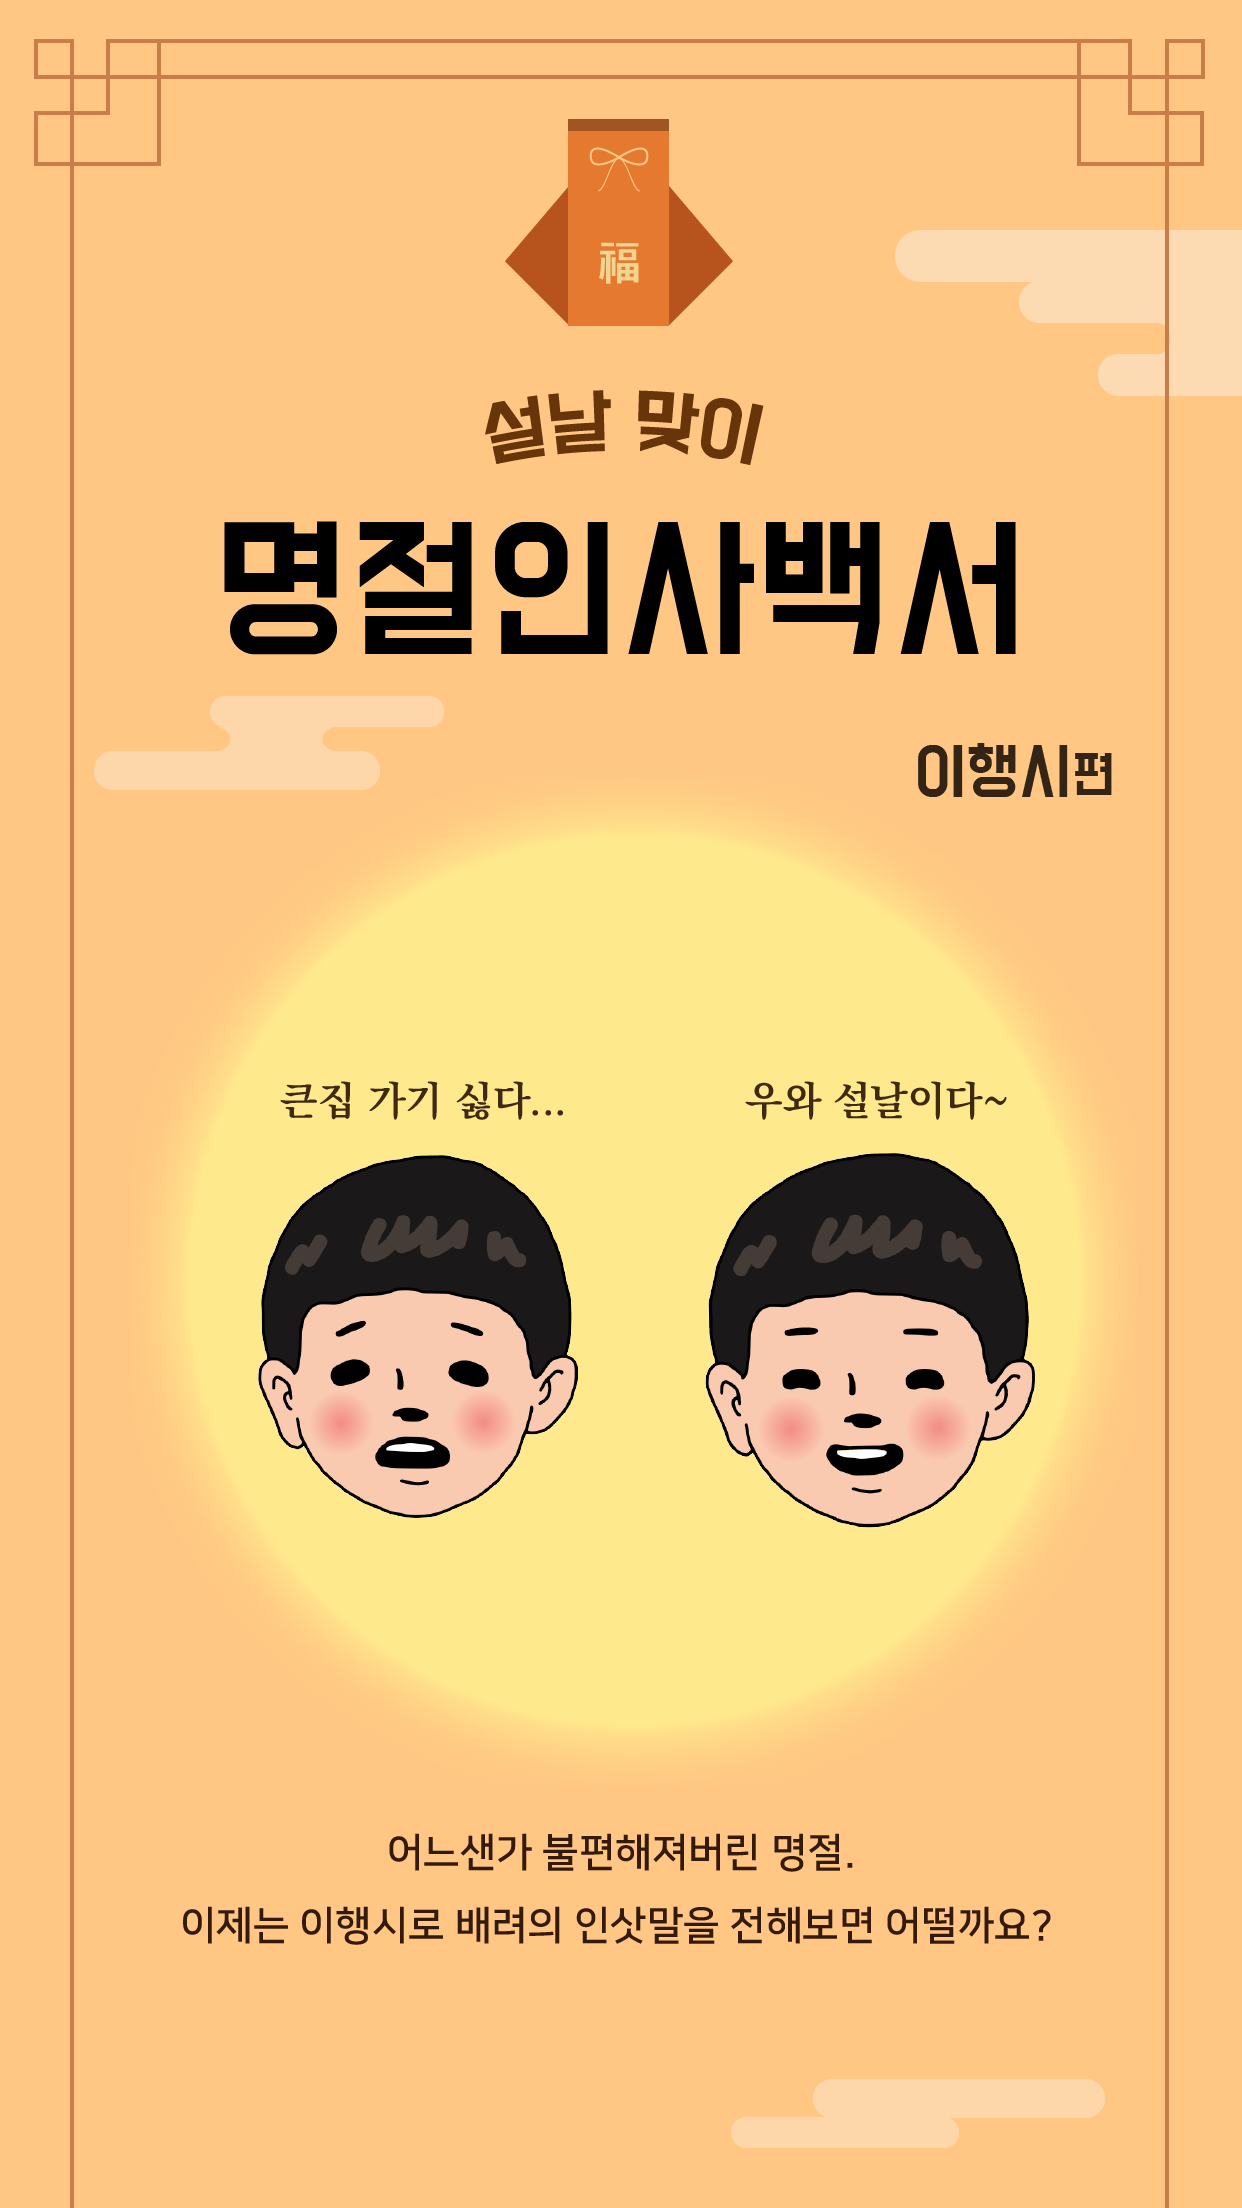
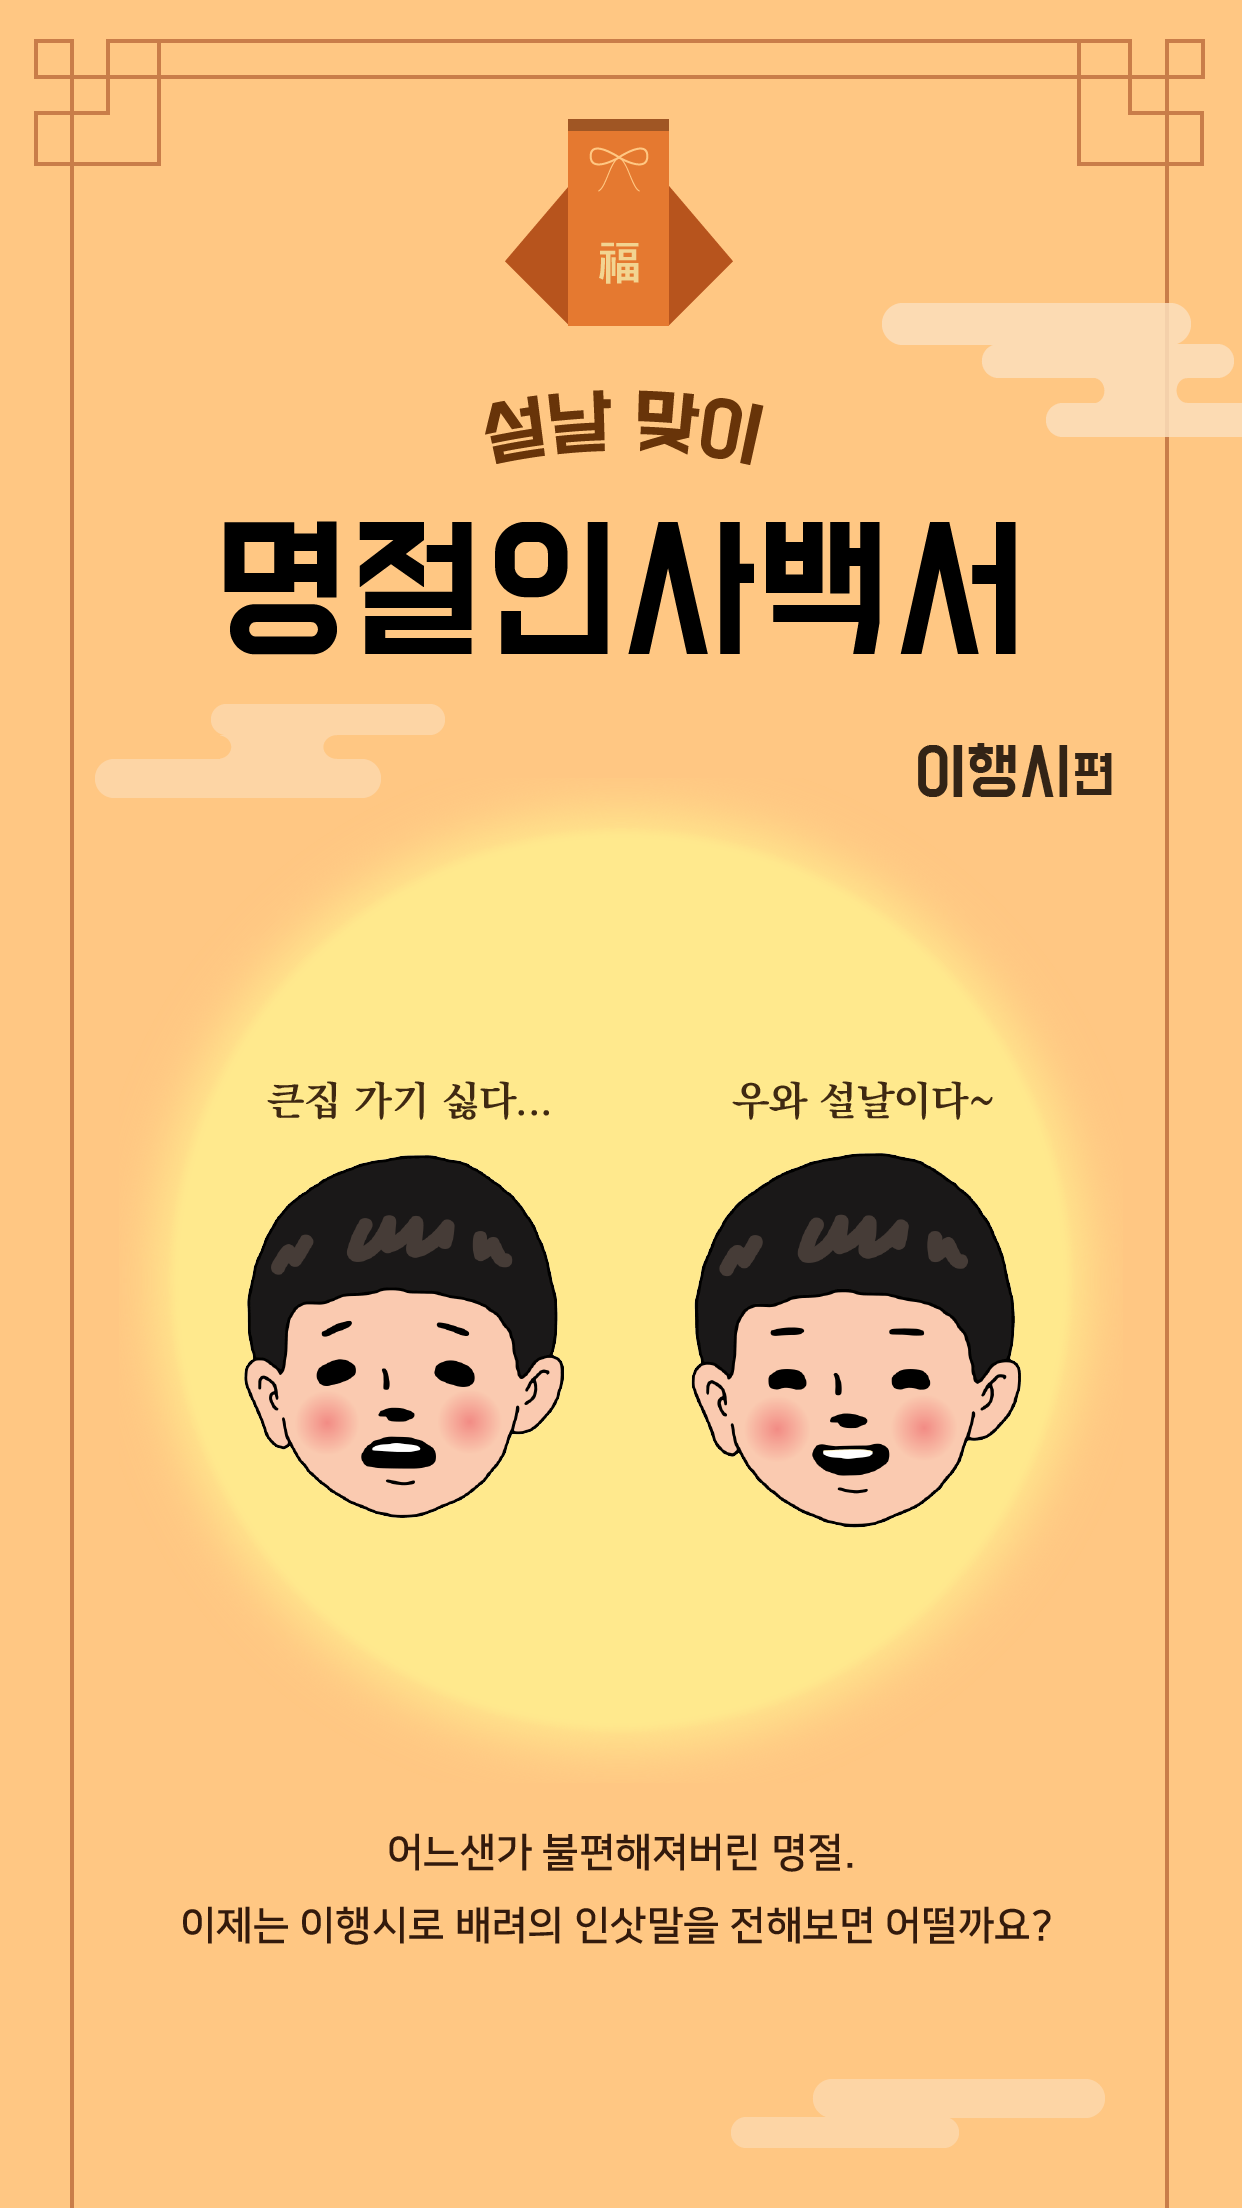
0123 style

diff --git a/public/stylesheets/mobile.css b/public/stylesheets/mobile.css
@@ -1,12 +1,15 @@
 /*mobile device*/
 @media screen and (max-width:768px)
 {
-/*
-    #cardslider
-    {
-    padding-top: 15vh;    
+    #a1{
+        margin-left: 80%;
     }
-*/
+    #a2{
+        margin-left: 10%;
+    }
+    #tagList{
+        margin-top:1%;
+    }
     .imageBlock img
     {
         width: 100% ; 
@@ -32,7 +35,10 @@
     {
         padding-top:30vh;
     }
-    
+    #beforeNext
+    {
+    max-width: 800px; width: 80%; height: 8vh; margin: 3% auto 3% auto;
+    }
     
     
 }
@@ -40,6 +46,21 @@
 
 @media screen and (min-width:769px)
 {
+    #a1{
+        margin-left: 80%;
+        font-size: 2em;
+    }
+    #a2{
+        margin-left: 10%;
+    font-size: 2.5em;
+    }
+    #tagList{
+        margin-top:2%;
+    }
+    #styleList{
+        position:relative; top:10px; padding:0; height: 10vh;
+    }
+    
     #cardslider
     {
     padding-top: 12vh;    
@@ -106,12 +127,36 @@
     {
         padding-top:40vh;
     }
+    #beforeNext
+    {
+    max-width: 800px; width: 90%; height: 8vh; margin: 3% auto 3% auto;
+    }
 
     
 }
 /*desktop*/
 @media screen and (min-width:1100px)
 {
+    body{
+        background-size: 50% 100vh;
+    }
+     #a1{
+        margin-left: 65%;
+         font-size: 1em;
+    }
+    #a2{
+        margin-left: 35%;
+        font-size: 1.2em;
+    }
+    #tagList{
+    position:relative; 
+/*        top:-3%;*/
+        top:10px;
+        padding: 0;
+    }
+    #styleList{
+        position:relative; top:10px; padding:0;
+    }
     #index1
     {
 background-size: 50% 100vh;
@@ -144,8 +189,9 @@ background-size: 50% 100vh;
     #card_style
     {
     width: 30%;   
-        height: 70%;
-        margin-top: 30px;
+        height: 60%;
+        margin-top: 20px;
+/*        position:relative; top:-8%;*/
     }
     .textBlock
     {
@@ -165,6 +211,10 @@ background-size: 50% 100vh;
     }
     #second_line{
         font-size:2em;
+    }
+     #beforeNext
+    {
+    max-width: 800px; width: 40vw; height: 8vh; margin-top:20px;
     }
     
 }

diff --git a/public/stylesheets/cover.css b/public/stylesheets/cover.css
@@ -3,7 +3,7 @@ html { -webkit-text-size-adjust: none; }
 
 head{
 /*  background:beige;*/
-    background: url("../images/index2.png") no-repeat center center;
+    background: url("../images/index1.png") no-repeat center center;
   width: 1120px;
   max-width: none !important;
 }
@@ -260,7 +260,7 @@ img {
 }
 #index2
 {
-  background: url("../images/index2.png") no-repeat center center; 
+  background: url("../images/index2.png") no-repeat center white; 
   background-size: 100% 100vh;
   width: 100%;
   height: 100%;
@@ -268,7 +268,7 @@ img {
 }
 #index1
 {
-  background: url("../images/index1.png") no-repeat center center; 
+  background: url("../images/index1.png") no-repeat center white; 
   background-size: 100% 100vh;
   width: 100%;
   height: 100%;
@@ -276,7 +276,7 @@ img {
 }
 #main_index2
 {
-  background: url("../images/main_index2.png") no-repeat center center; 
+  background: url("../images/main_index2.png") no-repeat center white; 
   background-size: 100% 100vh;
   width: 100%;
   height: 100%;
